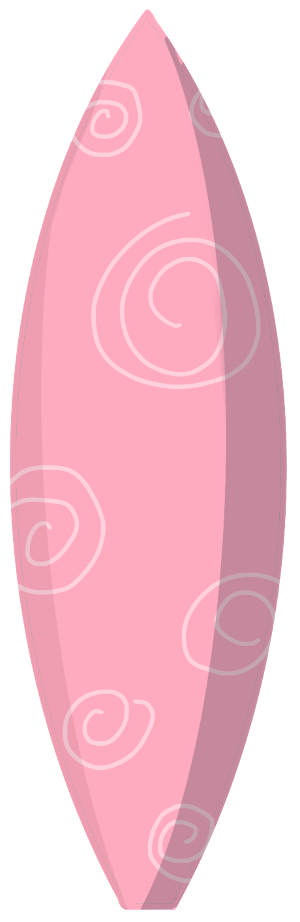
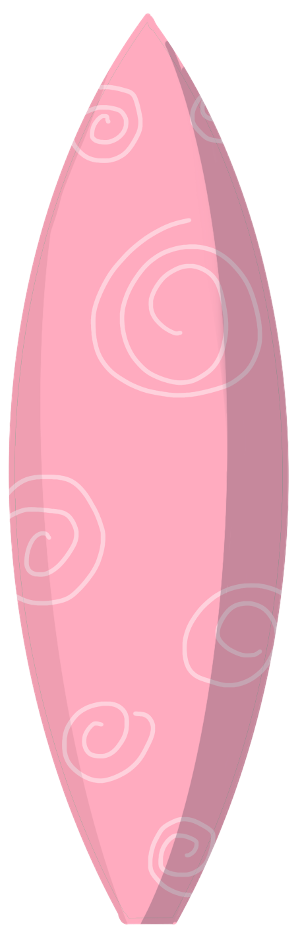
forside
har laget forside som ligner på prototypen.

diff --git a/index.html b/index.html
@@ -1,12 +1,146 @@
+<!-- @format -->
+
 <!DOCTYPE html>
 <html lang="en">
-<head>
-    <meta charset="UTF-8">
-    <meta http-equiv="X-UA-Compatible" content="IE=edge">
-    <meta name="viewport" content="width=device-width, initial-scale=1.0">
+  <head>
+    <meta charset="UTF-8" />
+    <meta http-equiv="X-UA-Compatible" content="IE=edge" />
+    <meta name="viewport" content="width=device-width, initial-scale=1.0" />
     <title>Duck surfer</title>
-</head>
-<body>
-    
-</body>
+    <link
+      href="https://cdn.jsdelivr.net/npm/bootstrap@5.0.2/dist/css/bootstrap.min.css"
+      rel="stylesheet"
+      integrity="sha384-EVSTQN3/azprG1Anm3QDgpJLIm9Nao0Yz1ztcQTwFspd3yD65VohhpuuCOmLASjC"
+      crossorigin="anonymous"
+    />
+    <link rel="stylesheet" href="css/styles.css" />
+  </head>
+  <body>
+    <section class="homepage">
+      <a href="index.html">
+        <img src="images/logo.png" alt="duck surfer logo" class="logo" />
+      </a>
+      <div class="menu-container">
+        <div class="box menu">
+          <img
+            src="images/btn-start.png"
+            alt="start game button"
+            class="btn"
+            id="btn-start"
+          />
+          <img
+            src="images/icon-how_to_play.png"
+            alt="how to play button"
+            class="btn"
+            id="btn-how-to-play"
+          />
+          <img
+            src="images/settings.png"
+            alt="settings button"
+            class="btn"
+            id="btn-settings"
+          />
+          <img
+            src="images/btn-credits.png"
+            alt="credits button"
+            class="btn"
+            id="btn-credits"
+          />
+        </div>
+        <div id="carousel-container" class="carousel" data-bs-ride="carousel">
+          <div class="box carousel-inner">
+            <div class="carousel-item active">
+              <img
+                src="images/brett1.png"
+                alt="green surfboard"
+                class="d-block w-25" id="surfboard-green"
+              />
+            </div>
+            <div class="carousel-item">
+              <img
+                src="images/brett2.png"
+                alt="gray surfboard"
+                class="d-block w-25" id="surfboard-gray"
+              />
+            </div>
+            <div class="carousel-item">
+              <img
+                src="images/brett3.png"
+                alt="pink surfboard"
+                class="d-block w-25" id="surfboard-pink"
+              />
+            </div>
+          </div>
+          <button
+            class="carousel-control-prev"
+            type="button"
+            data-bs-target="#carousel-container"
+            data-bs-slide="prev"
+          >
+            <span class="carousel-control-prev-icon" aria-hidden="true"></span>
+            <span class="visually-hidden">Previous</span>
+          </button>
+          <button
+            class="carousel-control-next"
+            type="button"
+            data-bs-target="#carousel-container"
+            data-bs-slide="next"
+          >
+            <span class="carousel-control-next-icon" aria-hidden="true"></span>
+            <span class="visually-hidden">Next</span>
+          </button>
+        </div>
+        <div class="box block how-to-play">
+          <h1>Spillregler</h1>
+          <ul>
+            <li>
+              Velg et surfebrett og bruk tastaturene (venstre, høyre, opp og
+              ned) til å bevege deg rundt.
+            </li>
+            <li>Hensikten er å få høyeste poengscore</li>
+            <li>Du mister liv ved å treffe en hindring</li>
+            <li>Spillet slutter når du har 0 liv igjen.</li>
+          </ul>
+          <img src="images/btn-back.png" alt="back button" class="btn-back" />
+        </div>
+        <div class="box block settings">
+          <h1>Settings</h1>
+          <div class="settings-div">
+            <h2>Lyd</h2>
+            <input type="range" />
+          </div>
+          <div class="settings-div">
+            <h2>Oppløsning</h2>
+            <select name="resolution" id="resolution">
+              <option value="1280x720">1280x720</option>
+              <option value="1600x900">1600x900</option>
+              <option value="1920x1080">1920x1080</option>
+            </select>
+          </div>
+          <img src="images/btn-back.png" alt="back button" class="btn-back" />
+        </div>
+        <div class="box block credits">
+          <h1>Credits</h1>
+          <p>
+            Dette spillet var en prosjektoppgave i informasjonsbehandling ved
+            NTNU.
+          </p>
+          <p>Spillet er laget av:</p>
+          <ul>
+            <li>Auden Johannes Tjersland Solbr Bay</li>
+            <li>Lilly Thi Bui</li>
+            <li>Kaspar Kindem</li>
+            <li>Stian Sagstad</li>
+          </ul>
+          <img src="images/btn-back.png" alt="back button" class="btn-back" />
+        </div>
+      </div>
+    </section>
+    <script
+      src="https://cdn.jsdelivr.net/npm/bootstrap@5.0.2/dist/js/bootstrap.bundle.min.js"
+      integrity="sha384-MrcW6ZMFYlzcLA8Nl+NtUVF0sA7MsXsP1UyJoMp4YLEuNSfAP+JcXn/tWtIaxVXM"
+      crossorigin="anonymous"
+    ></script>
+    <script src="js/index.js"></script>
+  </body>
 </html>

diff --git a/js/index.js b/js/index.js
@@ -1,0 +1,56 @@
+/* Knapper */
+const start = document.querySelector("#btn-start");
+const backBtn = document.querySelectorAll(".btn-back");
+const howToPlay = document.querySelector("#btn-how-to-play");
+const credits = document.querySelector("#btn-credits");
+const settings = document.querySelector("#btn-settings");
+
+const menu = document.querySelector(".menu");
+const carousel = document.querySelector("#carousel-container");
+const howToPlayBlock = document.querySelector(".how-to-play")
+const creditsBlock = document.querySelector(".credits");
+const settingsBlock = document.querySelector(".settings")
+
+/* surfebrett */
+const surfGreen = document.querySelector("#surfboard-green");
+const surfGray = document.querySelector("#surfboard-gray");
+const surfPink = document.querySelector("#surfboard-pink");
+
+
+
+start.onclick = ()=>{
+    menu.style.display = "none";
+    carousel.style.display = "block";
+}
+
+howToPlay.onclick = ()=>{
+    menu.style.display = "none";
+    howToPlayBlock.style.display = "flex";
+}
+
+settings.onclick = ()=>{
+    menu.style.display = "none";
+    settingsBlock.style.display = "flex";
+}
+
+credits.onclick = ()=>{
+    menu.style.display = "none";
+    creditsBlock.style.display = "flex";
+}
+
+for (buttons of backBtn){
+    buttons.addEventListener('click', ()=>{
+        menu.style.display = "flex";
+        creditsBlock.style.display = "none";
+        settingsBlock.style.display = "none";
+        howToPlayBlock.style.display = "none";
+    } )
+}
+
+function toGame(){
+    window.location.href ="game.html";
+}
+
+surfGreen.addEventListener("click", toGame);
+surfGray.addEventListener("click", toGame);
+surfPink.addEventListener("click", toGame);

diff --git a/css/styles.css b/css/styles.css
@@ -1,0 +1,112 @@
+.homepage{
+    background-image: url("../images/background.png");
+    background-size: cover;
+    background-position: center;
+    background-repeat: no-repeat;
+    height: 100vh;
+    display: flex;
+    flex-direction: column;
+    align-items: center;
+    justify-content: center;
+}
+
+.logo{
+    max-width: 300px;
+}
+
+.menu-container{
+    background-color: #F9D748;
+    padding: 5px;
+    margin-top: 50px;
+    border-radius: 25px;
+}
+
+.menu{
+    display: flex;
+    flex-direction: column;
+    align-items: center;
+    padding: 10px 20px;
+}
+
+.box{
+    background-color: #E89C3C;
+    border-radius: 25px;
+}
+
+/* carousel */
+
+#carousel-container{
+    display: none;
+}
+
+.carousel-inner{
+    display: flex;
+    padding: 20px;
+    justify-content: space-between;
+}
+
+.carousel-inner img{
+    margin: auto;
+}
+
+/* block */
+
+.block{
+    max-width: 350px;
+    padding: 20px 10px;
+    flex-direction: column;
+}
+
+.block h1{
+    text-transform: uppercase;
+    text-align: center;
+    font-size: 2em;
+    margin-bottom: 20px;
+}
+
+.block p{
+    margin: 10px;
+}
+
+/* how to play */
+
+.how-to-play{
+    display: none;
+}
+
+/* settings */
+
+.settings{
+    display: none;
+    padding: 30px;
+}
+
+.settings h2{
+    font-size: 1.2em;
+}
+
+.settings-div{
+    margin: 10px 0px;
+}
+
+.settings .btn-back{
+    margin-top: 20px;
+}
+
+/* credits */
+
+.credits{
+    display: none;
+}
+
+
+/* buttons */
+
+.btn{
+    max-width: 150px;
+}
+
+.btn-back{
+    max-width: 100px;
+    margin: 10px auto 0px auto;
+}

diff --git a/game.html b/game.html
@@ -1,0 +1,13 @@
+<!DOCTYPE html>
+<html lang="en">
+<head>
+    <meta charset="UTF-8">
+    <meta http-equiv="X-UA-Compatible" content="IE=edge">
+    <meta name="viewport" content="width=device-width, initial-scale=1.0">
+    <title>Duck surfer</title>
+</head>
+<body>
+    
+<script src="js/game.js"></script>
+</body>
+</html>
